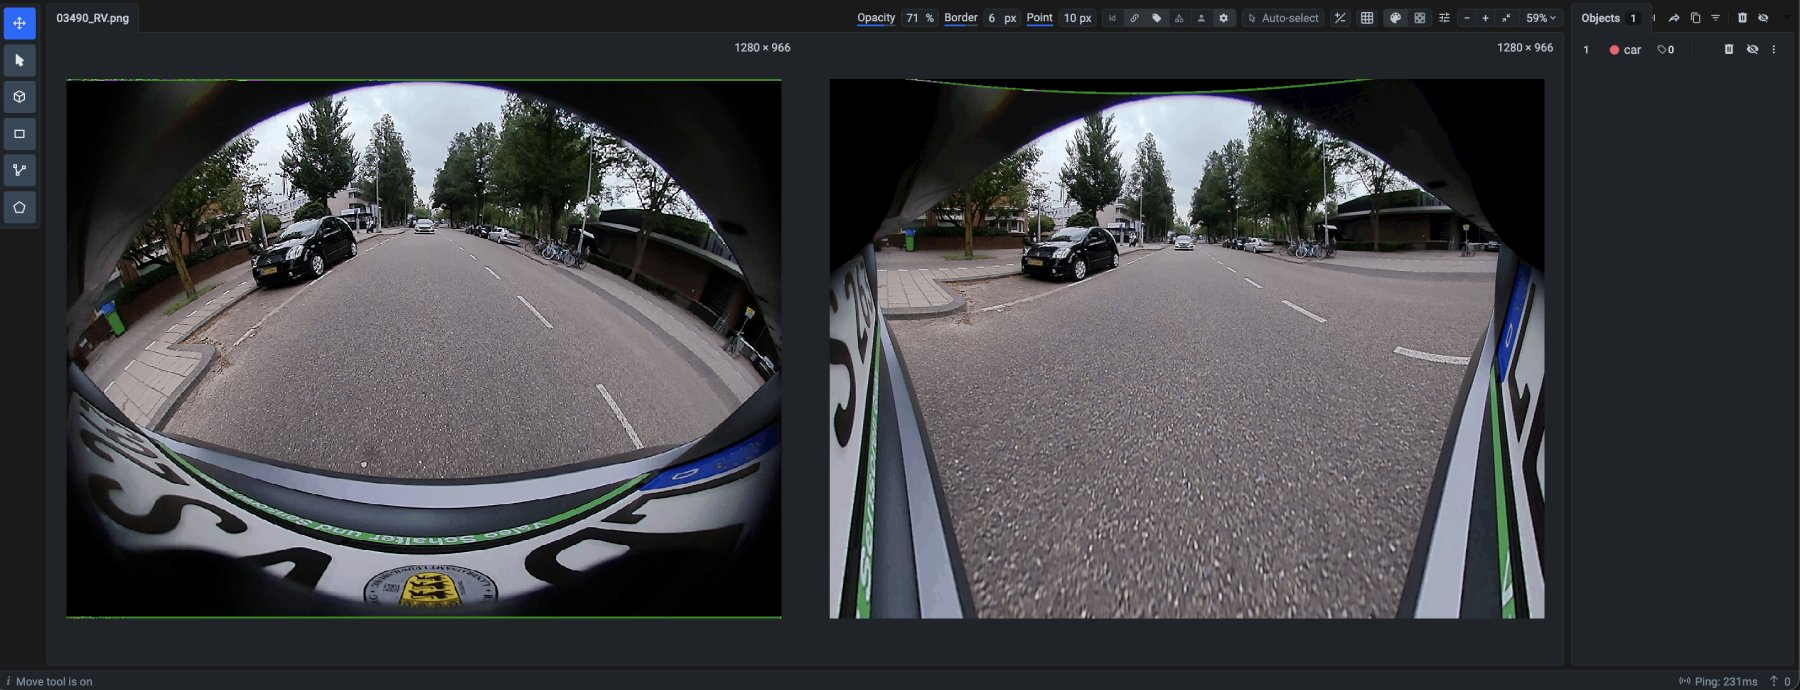
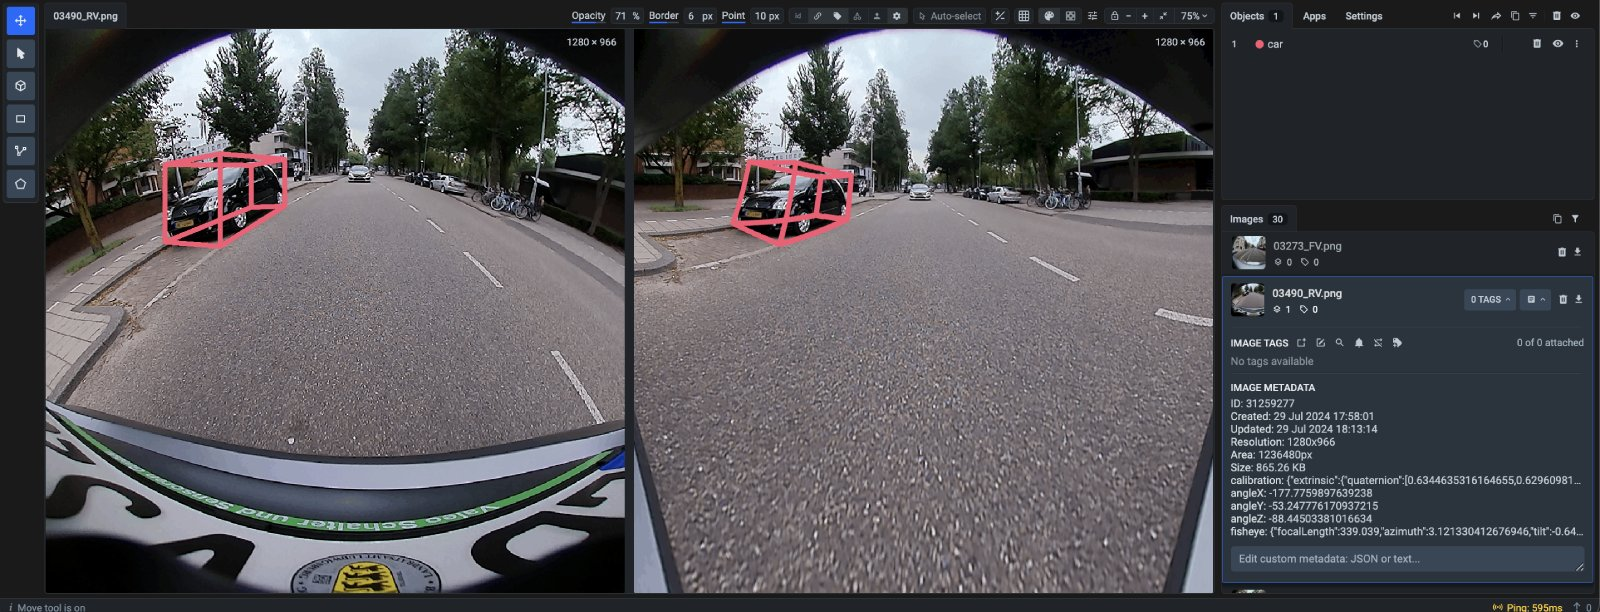
update media

diff --git a/labeling/images/Fisheye/Fisheye.md b/labeling/images/Fisheye/Fisheye.md
@@ -20,27 +20,6 @@ To use the fisheye labeling interface, you need to:
 **To correctly import fisheye images, all metadata files should be placed in the directory with the `meta` name**.
 {% endhint %}
 
-## Data structure
-
-- **Folder** or **Archive** (`zip`, `tar`)
-
-```
-📦 my_project.zip or 📂 my_project
-    ┣ 📂 img
-    ┃  ┣ 🏞 car_105.jpg
-    ┃  ┗ 🏞 car_202.jpg
-    ┣ 📂 meta
-    ┃  ┣ 📄 car_105.jpg.json     ⬅ calibration parameters
-    ┃  ┗ 📄 car_202.jpg.json     ⬅ calibration parameters
-    ┗ 📂 ann
-    ┣ 📄 car_105.jpg.json        ⬅ annotation files (optional)
-    ┗ 📄 car_202.jpg.json        ⬅ annotation files (optional)
-```
-
-The `meta` folder contains metadata files for fisheye images with the calibration parameters. Each metadata file should have the same name as the corresponding image file + `.json` extension.
-
-_Optional_: The `ann` folder contains annotation files in the Supervisely format. Each annotation file should have the same name as the corresponding image file + `.json` extension.
-
 ## Fisheye Lens Calibration Metadata
 
 It is essential to provide calibration data for fisheye images to allow the fisheye labeling interface to correct the distortion. The calibration data is stored in metadata files in JSON format.
@@ -100,13 +79,16 @@ Here are the key points and fields descriptions:
 
 </details>
 
-## Special Tool for Fisheye Images: Cuboid
+## Special Tool for Fisheye Images: 2D Cuboid
 
 The `Fisheye` labeling interface includes a new 2D `Cuboid` tool that allows you to annotate objects with a cuboid shape. The `Cuboid` tool is designed to annotate objects in fisheye images with a 3D-like shape, such as cars, buildings, or other objects.
 
-On the left (original) side of the interface, you can see the fisheye image with the distortion. On the right (corrected) side, you can see the image with the distortion corrected. The `Cuboid` shape objects also appear in 3D-like form on the corrected side.
+![](Cuboid-2d-frame.jpg)
+
+<figure><img src="./Cuboid-2d-frame.jpg" width="500" alt=""><figcaption></figcaption></figure>
 
 Check out the [Cuboid](../../../data-organization/Annotation-JSON-format/04_Supervisely_Format_objects.md#cuboids-2d-annotation) section of the documentation to learn more about the `Cuboid` tool.
 
-![](Fisheye-Cuboid-Tool.jpg)
+On the left (original) side of the interface, you can see the fisheye image with the distortion. On the right (corrected) side, you can see the image with the distortion corrected. The `Cuboid-shaped objects also have a 3D-like appearance in the corrected image (it is not a real 3D object, but it looks like one).
 
+![](Cuboid-frame.gif)

diff --git a/data-organization/import/import/supported-formats-images/fisheye.md b/data-organization/import/import/supported-formats-images/fisheye.md
@@ -4,7 +4,7 @@
 
 Annotate fisheye images with ease using the fisheye labeling interface in Supervisely.
 
-[](./images/fisheye_interface-frame.jpg)
+![](./images/fisheye_interface-frame.jpg)
 
 Fisheye images are a special type of images that are captured with a ultra-wide-angle lens (a.k.a. fisheye lens). The fisheye lens produces strong visual distortion intended to create a wide panoramic or hemispherical image. It is a popular choice for many applications, such as surveillance, automotive, and VR/AR. However, the fisheye distortion can make it challenging to annotate objects accurately.
 
@@ -19,6 +19,8 @@ To use the fisheye labeling interface, you need to:
 {% hint style="info" %}
 To correctly import fisheye images, all metadata files should be placed **in the directory with the `meta` name**.
 {% endhint %}
+
+The `Fisheye` labeling interface in Supervisely provides the new labeling tool 2D Cuboid for annotating objects like cars, pedestrians, and other objects in fisheye images. Learn more about the 2D Cuboid annotation format in the [documentation](../../../Annotation-JSON-format/04_Supervisely_Format_objects.md#cuboids-2d-annotation).
 
 ## Description
 

diff --git a/data-organization/Annotation-JSON-format/04_Supervisely_Format_objects.md b/data-organization/Annotation-JSON-format/04_Supervisely_Format_objects.md
@@ -495,7 +495,7 @@ Fields definitions:
 
 Example:
 
-![cuboid 2d example](./figures_images/cuboid_2D.png)
+![cuboid 2d example](./figures_images/cuboid_2D_new.jpg)
 
 ```json
 {
